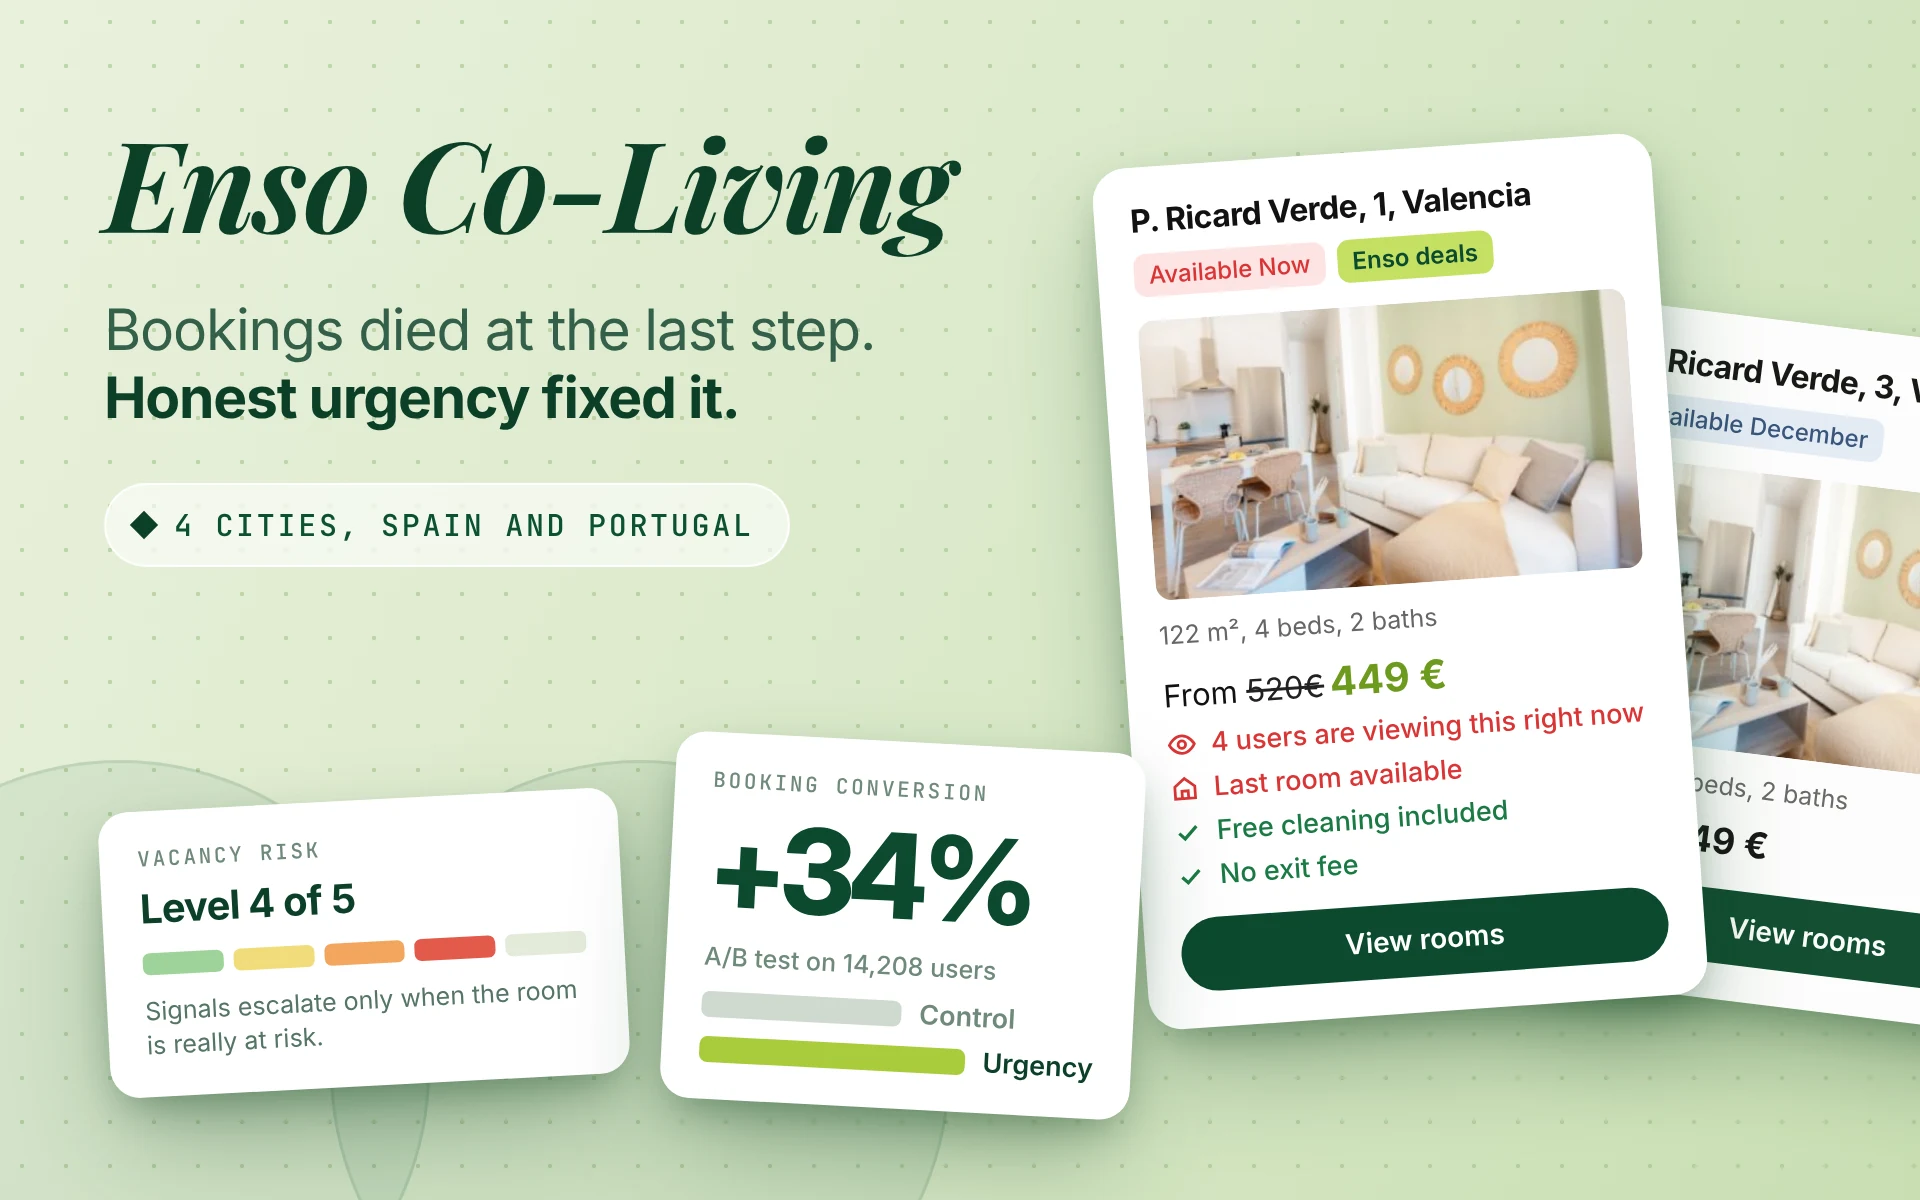
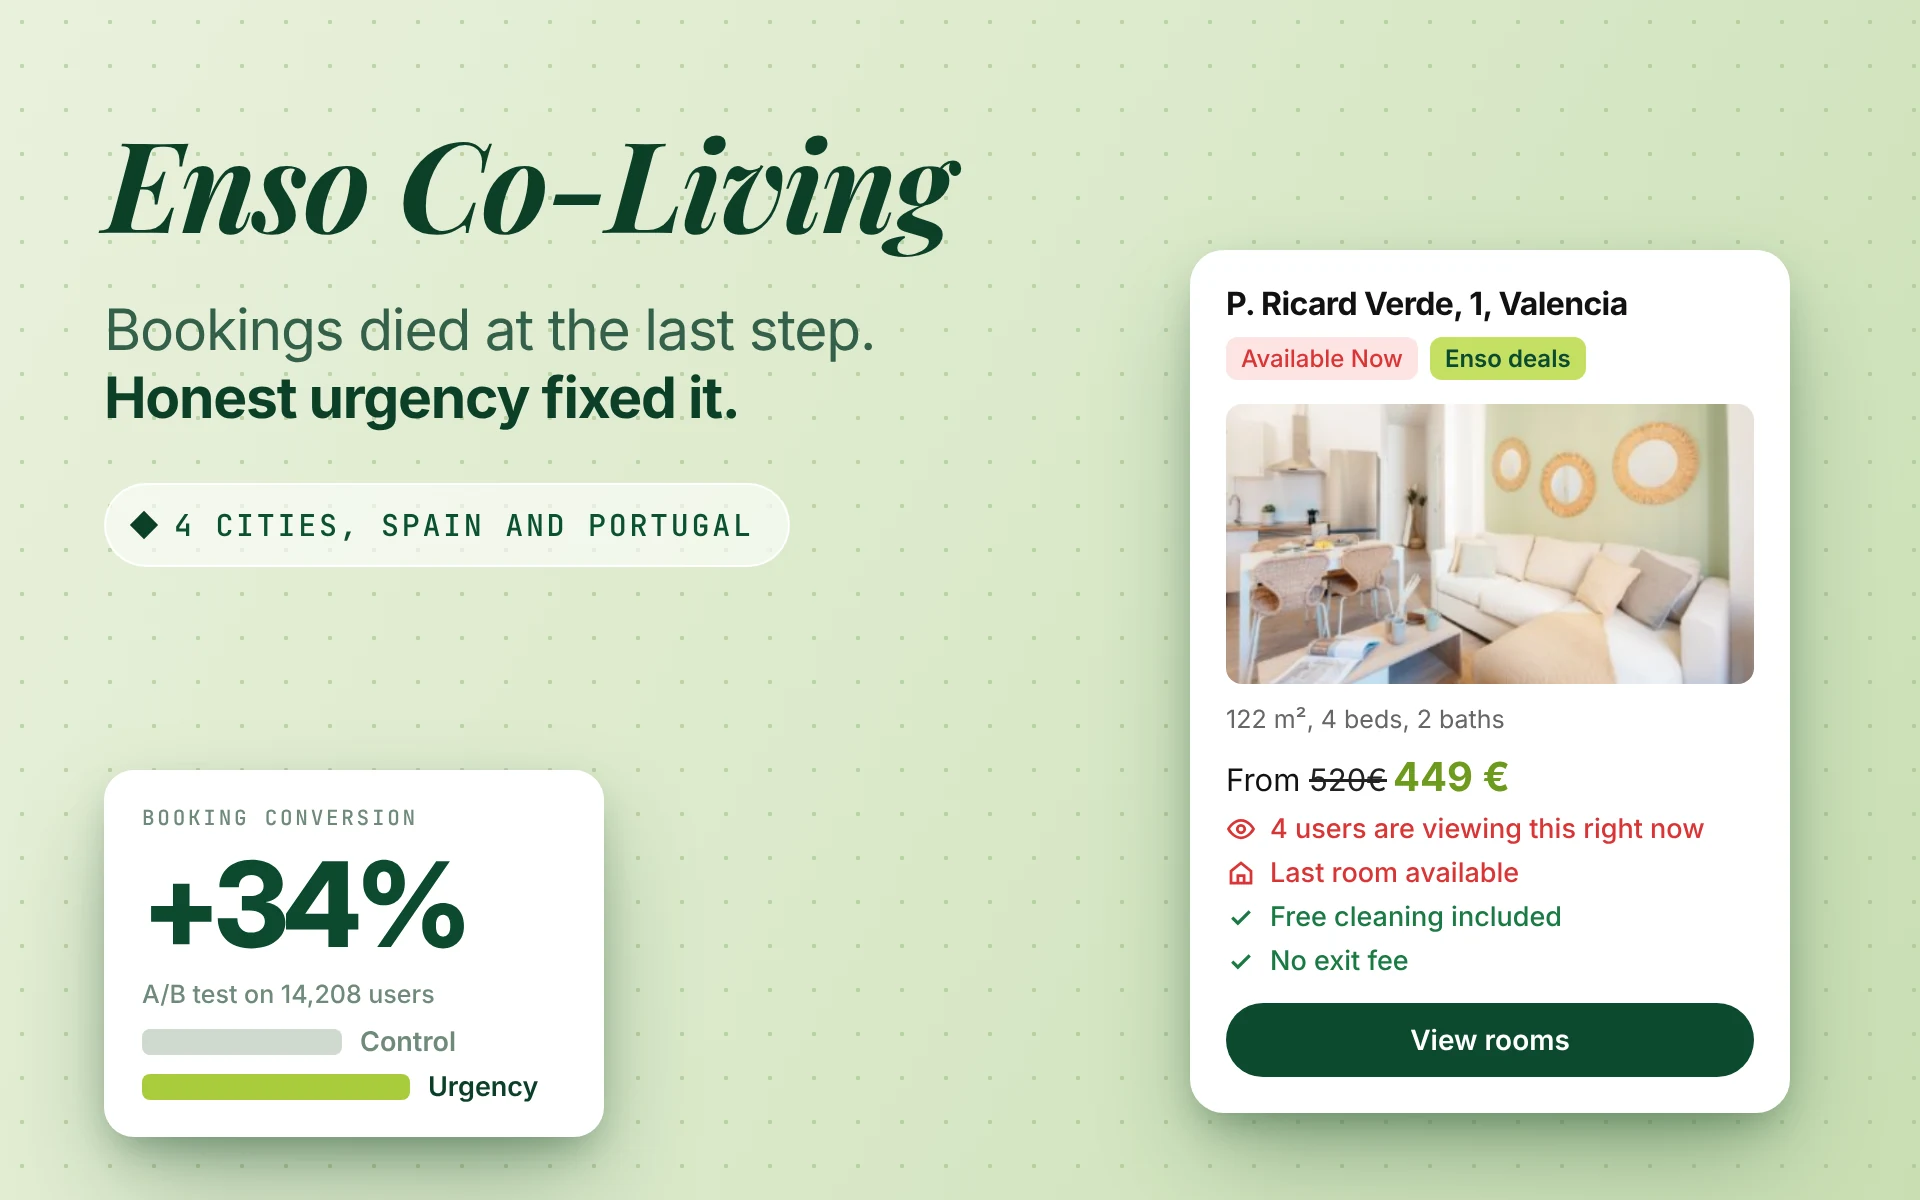
Home thumbnails: simpler compositions, no rotation
One straight product UI and a single supporting card per case.

Claude-Session: https://claude.ai/code/session_01HvDhLRpg4a3zYGk4NLmBHG

diff --git a/index.html b/index.html
@@ -938,11 +938,11 @@ window.addEventListener('DOMContentLoaded',function(){
 <div class="cards">
 <a href="work/shelfflow.html" class="cd cd--f cd--5"><div class="cd__img"><img src="img/shelfflow/flagship-card.webp?v=1118c" width="2374" height="1118" decoding="async" alt="ShelfFlow: six agents do the work, four people decide what ships" style="width:100%;height:100%;object-fit:cover;object-position:center;position:absolute;inset:0"></div><div class="cd__body"><div class="cd__type"><span class="cd__tag cd__tag--who">Enterprise CPG / NDA</span><span class="cd__tag cd__tag--what">Agentic Pipeline</span><span class="cd__tag cd__tag--result">1 Brief &#8594; 36 Packages</span><span class="cd__tag cd__tag--live">Interactive Demo</span></div><h3 class="cd__name">ShelfFlow</h3><p class="cd__desc">The supervision interface for an agentic content pipeline: six AI agents generate and adapt, four human gates decide what ships across retailers.</p><div class="cd__foot"><span class="cd__yr">View case study</span><span class="cd__go">&#8594;</span></div></div></a>
 <a href="work/acervo.html" class="cd cd--f cd--1"><div class="cd__img"><img src="img/acervo-card.webp" width="2374" height="1118" decoding="async" alt="Acervo private automotive collections" style="width:100%;height:100%;object-fit:cover;object-position:center;position:absolute;inset:0"></div><div class="cd__body"><div class="cd__type"><span class="cd__tag cd__tag--who">Acervo / Private client, Mexico</span><span class="cd__tag cd__tag--what">AI Build / Agent Team</span><span class="cd__tag cd__tag--result">17 Days to Production</span><span class="cd__tag cd__tag--live">Live at app.acervogroup.com</span></div><h3 class="cd__name">Acervo</h3><p class="cd__desc">A private platform for a serious car collection, built for a private collector in Mexico. Scoped, designed and shipped solo with eight AI agents under two human gates.</p><div class="cd__foot"><span class="cd__yr">View case study</span><span class="cd__go">&#8594;</span></div></div></a>
-<a href="work/checkout.html" class="cd cd--3"><div class="cd__img"><img src="img/gyg-card.webp?v=1118t" width="1920" height="1200" decoding="async" loading="lazy" alt="GetYourGuide checkout redesign: the funnel leaked between steps, +11% conversion" style="width:100%;height:100%;object-fit:cover;position:absolute;inset:0"></div><div class="cd__body"><div class="cd__type"><span class="cd__tag cd__tag--who">GetYourGuide</span><span class="cd__tag cd__tag--what">CRO / 10 A/B Tests</span><span class="cd__tag cd__tag--result">+11% Conversion</span><span class="cd__tag cd__tag--live">Live in Production</span></div><h3 class="cd__name">Checkout Funnel Redesign</h3><p class="cd__desc">The team was optimizing the wrong step. 38% of converters left checkout and came back to nothing. Ten experiments on the gap nobody measured.</p><div class="cd__foot"><span class="cd__yr">View case study</span><span class="cd__go">&#8594;</span></div></div></a>
+<a href="work/checkout.html" class="cd cd--3"><div class="cd__img"><img src="img/gyg-card.webp?v=1118u" width="1920" height="1200" decoding="async" loading="lazy" alt="GetYourGuide checkout redesign: the funnel leaked between steps, +11% conversion" style="width:100%;height:100%;object-fit:cover;position:absolute;inset:0"></div><div class="cd__body"><div class="cd__type"><span class="cd__tag cd__tag--who">GetYourGuide</span><span class="cd__tag cd__tag--what">CRO / 10 A/B Tests</span><span class="cd__tag cd__tag--result">+11% Conversion</span><span class="cd__tag cd__tag--live">Live in Production</span></div><h3 class="cd__name">Checkout Funnel Redesign</h3><p class="cd__desc">The team was optimizing the wrong step. 38% of converters left checkout and came back to nothing. Ten experiments on the gap nobody measured.</p><div class="cd__foot"><span class="cd__yr">View case study</span><span class="cd__go">&#8594;</span></div></div></a>
 <div class="cards__side">
-<a href="work/enso.html" class="cd cd--4"><div class="cd__img"><img src="img/enso-card.webp?v=1118t" width="1920" height="1200" decoding="async" loading="lazy" alt="ENSO Co-Living: risk calibrated urgency cards, +34% booking conversion" style="width:100%;height:100%;object-fit:cover;position:absolute;inset:0"></div><div class="cd__body"><div class="cd__type"><span class="cd__tag cd__tag--who">ENSO Co-Living</span><span class="cd__tag cd__tag--what">PropTech Onboarding</span><span class="cd__tag cd__tag--result">+34% Booking Conversion</span></div><h3 class="cd__name">ENSO Co-Living</h3><p class="cd__desc">A tenant app nobody used and a booking flow that lost people at the end. Rebuilt both on one platform, A/B validated, across four cities in Spain and Portugal.</p><div class="cd__foot"><span class="cd__yr">View case study</span><span class="cd__go">&#8594;</span></div></div></a>
-<a href="work/kodo.html" class="cd cd--2"><div class="cd__img"><img src="img/kodo/thumbnail-card.webp?v=1118t" width="1920" height="1200" decoding="async" loading="lazy" alt="KŌDO Arbitrage: from 23 metrics to one question" style="width:100%;height:100%;object-fit:cover;position:absolute;inset:0"></div><div class="cd__body"><div class="cd__type"><span class="cd__tag cd__tag--who">Personal Project</span><span class="cd__tag cd__tag--what">Trading Interface</span><span class="cd__tag cd__tag--result">23 Metrics &#8594; 1 Decision</span><span class="cd__tag cd__tag--live">Live</span></div><h3 class="cd__name">KŌDO Arbitrage</h3><p class="cd__desc">My own arbitrage bot for perpetual futures. v1 showed 23 metrics and the operator could not decide in under 30 minutes. v2 answers one question.</p><div class="cd__foot"><span class="cd__yr">View case study</span><span class="cd__go">&#8594;</span></div></div></a>
-<a href="work/retailnorm.html" class="cd cd--1"><div class="cd__img"><img src="img/retailnorm-card.webp?v=1118t" width="1920" height="1200" decoding="async" loading="lazy" alt="RetailNorm: three platforms normalized into one ROAS" style="width:100%;height:100%;object-fit:cover;position:absolute;inset:0"></div><div class="cd__body"><div class="cd__type"><span class="cd__tag cd__tag--who">Personal Product</span><span class="cd__tag cd__tag--what">Retail Media Analytics</span><span class="cd__tag cd__tag--result">40x Reporting Speed</span><span class="cd__tag cd__tag--live">Live</span></div><h3 class="cd__name">RetailNorm</h3><p class="cd__desc">Retail media analytics across platforms. Incomparable ROAS data normalized into one view that executives and analysts both trust.</p><div class="cd__foot"><span class="cd__yr">View case study</span><span class="cd__go">&#8594;</span></div></div></a>
+<a href="work/enso.html" class="cd cd--4"><div class="cd__img"><img src="img/enso-card.webp?v=1118u" width="1920" height="1200" decoding="async" loading="lazy" alt="ENSO Co-Living: risk calibrated urgency cards, +34% booking conversion" style="width:100%;height:100%;object-fit:cover;position:absolute;inset:0"></div><div class="cd__body"><div class="cd__type"><span class="cd__tag cd__tag--who">ENSO Co-Living</span><span class="cd__tag cd__tag--what">PropTech Onboarding</span><span class="cd__tag cd__tag--result">+34% Booking Conversion</span></div><h3 class="cd__name">ENSO Co-Living</h3><p class="cd__desc">A tenant app nobody used and a booking flow that lost people at the end. Rebuilt both on one platform, A/B validated, across four cities in Spain and Portugal.</p><div class="cd__foot"><span class="cd__yr">View case study</span><span class="cd__go">&#8594;</span></div></div></a>
+<a href="work/kodo.html" class="cd cd--2"><div class="cd__img"><img src="img/kodo/thumbnail-card.webp?v=1118u" width="1920" height="1200" decoding="async" loading="lazy" alt="KŌDO Arbitrage: from 23 metrics to one question" style="width:100%;height:100%;object-fit:cover;position:absolute;inset:0"></div><div class="cd__body"><div class="cd__type"><span class="cd__tag cd__tag--who">Personal Project</span><span class="cd__tag cd__tag--what">Trading Interface</span><span class="cd__tag cd__tag--result">23 Metrics &#8594; 1 Decision</span><span class="cd__tag cd__tag--live">Live</span></div><h3 class="cd__name">KŌDO Arbitrage</h3><p class="cd__desc">My own arbitrage bot for perpetual futures. v1 showed 23 metrics and the operator could not decide in under 30 minutes. v2 answers one question.</p><div class="cd__foot"><span class="cd__yr">View case study</span><span class="cd__go">&#8594;</span></div></div></a>
+<a href="work/retailnorm.html" class="cd cd--1"><div class="cd__img"><img src="img/retailnorm-card.webp?v=1118u" width="1920" height="1200" decoding="async" loading="lazy" alt="RetailNorm: three platforms normalized into one ROAS" style="width:100%;height:100%;object-fit:cover;position:absolute;inset:0"></div><div class="cd__body"><div class="cd__type"><span class="cd__tag cd__tag--who">Personal Product</span><span class="cd__tag cd__tag--what">Retail Media Analytics</span><span class="cd__tag cd__tag--result">40x Reporting Speed</span><span class="cd__tag cd__tag--live">Live</span></div><h3 class="cd__name">RetailNorm</h3><p class="cd__desc">Retail media analytics across platforms. Incomparable ROAS data normalized into one view that executives and analysts both trust.</p><div class="cd__foot"><span class="cd__yr">View case study</span><span class="cd__go">&#8594;</span></div></div></a>
 </div>
 </div></div></div>
 

diff --git a/product-consultant-zurich/index.html b/product-consultant-zurich/index.html
@@ -75,7 +75,7 @@
 <section><div class="mx"><div class="first"><span class="k">A first step that fits most situations</span><p>Product opportunity assessment. Two weeks to understand the business opportunity, identify what should be built, define an initial scope, name the risks and dependencies, and recommend an execution approach. It stands on its own and it is how most engagements start, whether what follows is a build, a product lead in the team or nothing at all.</p><a class="more" href="https://cal.com/inigoangulo/30min" data-cal-link="inigoangulo/30min">Start with the assessment &#8594;</a></div></div></section>
 
 <section><div class="mx"><h2>Proof, not promises</h2>
-<div class="case"><div><span class="tag">GetYourGuide, checkout</span><h3>+11% checkout conversion from the step nobody was measuring</h3><p>The team was optimising the wrong step. 38% of converters left checkout and came back with no re-entry experience. Ten experiments later: +11% conversion across four EU markets.</p><a class="more" href="../work/checkout.html">Read the case study &#8594;</a></div><a href="../work/checkout.html"><img src="../img/gyg-card.webp?v=1118t" alt="+11% checkout conversion from the step nobody was measuring" loading="lazy" decoding="async"></a></div>
+<div class="case"><div><span class="tag">GetYourGuide, checkout</span><h3>+11% checkout conversion from the step nobody was measuring</h3><p>The team was optimising the wrong step. 38% of converters left checkout and came back with no re-entry experience. Ten experiments later: +11% conversion across four EU markets.</p><a class="more" href="../work/checkout.html">Read the case study &#8594;</a></div><a href="../work/checkout.html"><img src="../img/gyg-card.webp?v=1118u" alt="+11% checkout conversion from the step nobody was measuring" loading="lazy" decoding="async"></a></div>
 </div></section>
 
 <section><div class="mx"><h2>Who this is for</h2>

diff --git a/cro-ecommerce-consultant/index.html b/cro-ecommerce-consultant/index.html
@@ -72,7 +72,7 @@
 
 
 <section><div class="mx"><h2>Proof, not promises</h2>
-<div class="case"><div><span class="tag">GetYourGuide, checkout</span><h3>Ten experiments, +11% conversion, four markets</h3><p>The team was optimising the wrong step. The problem was not payment, it was the re-entry experience nobody had measured. The case walks through all ten experiments, including the ones that lost.</p><a class="more" href="../work/checkout.html">Read the case study &#8594;</a></div><a href="../work/checkout.html"><img src="../img/gyg-card.webp?v=1118t" alt="Ten experiments, +11% conversion, four markets" loading="lazy" decoding="async"></a></div>
+<div class="case"><div><span class="tag">GetYourGuide, checkout</span><h3>Ten experiments, +11% conversion, four markets</h3><p>The team was optimising the wrong step. The problem was not payment, it was the re-entry experience nobody had measured. The case walks through all ten experiments, including the ones that lost.</p><a class="more" href="../work/checkout.html">Read the case study &#8594;</a></div><a href="../work/checkout.html"><img src="../img/gyg-card.webp?v=1118u" alt="Ten experiments, +11% conversion, four markets" loading="lazy" decoding="async"></a></div>
 </div></section>
 
 <section><div class="mx"><h2>Who this is for</h2>

diff --git a/ux-design-consultant/index.html b/ux-design-consultant/index.html
@@ -75,7 +75,7 @@
 
 
 <section><div class="mx"><h2>Proof, not promises</h2>
-<div class="case"><div><span class="tag">Enso Co-living</span><h3>4x adoption and +34% booking conversion on one platform</h3><p>Two product challenges, one platform: a tenant app nobody used and a booking flow that lost people at the end. Rebuilt both across Lisbon, Valencia, Madrid and Barcelona.</p><a class="more" href="../work/enso.html">Read the case study &#8594;</a></div><a href="../work/enso.html"><img src="../img/enso-card.webp?v=1118t" alt="4x adoption and +34% booking conversion on one platform" loading="lazy" decoding="async"></a></div>
+<div class="case"><div><span class="tag">Enso Co-living</span><h3>4x adoption and +34% booking conversion on one platform</h3><p>Two product challenges, one platform: a tenant app nobody used and a booking flow that lost people at the end. Rebuilt both across Lisbon, Valencia, Madrid and Barcelona.</p><a class="more" href="../work/enso.html">Read the case study &#8594;</a></div><a href="../work/enso.html"><img src="../img/enso-card.webp?v=1118u" alt="4x adoption and +34% booking conversion on one platform" loading="lazy" decoding="async"></a></div>
 </div></section>
 
 <section><div class="mx"><h2>Who this is for</h2>
